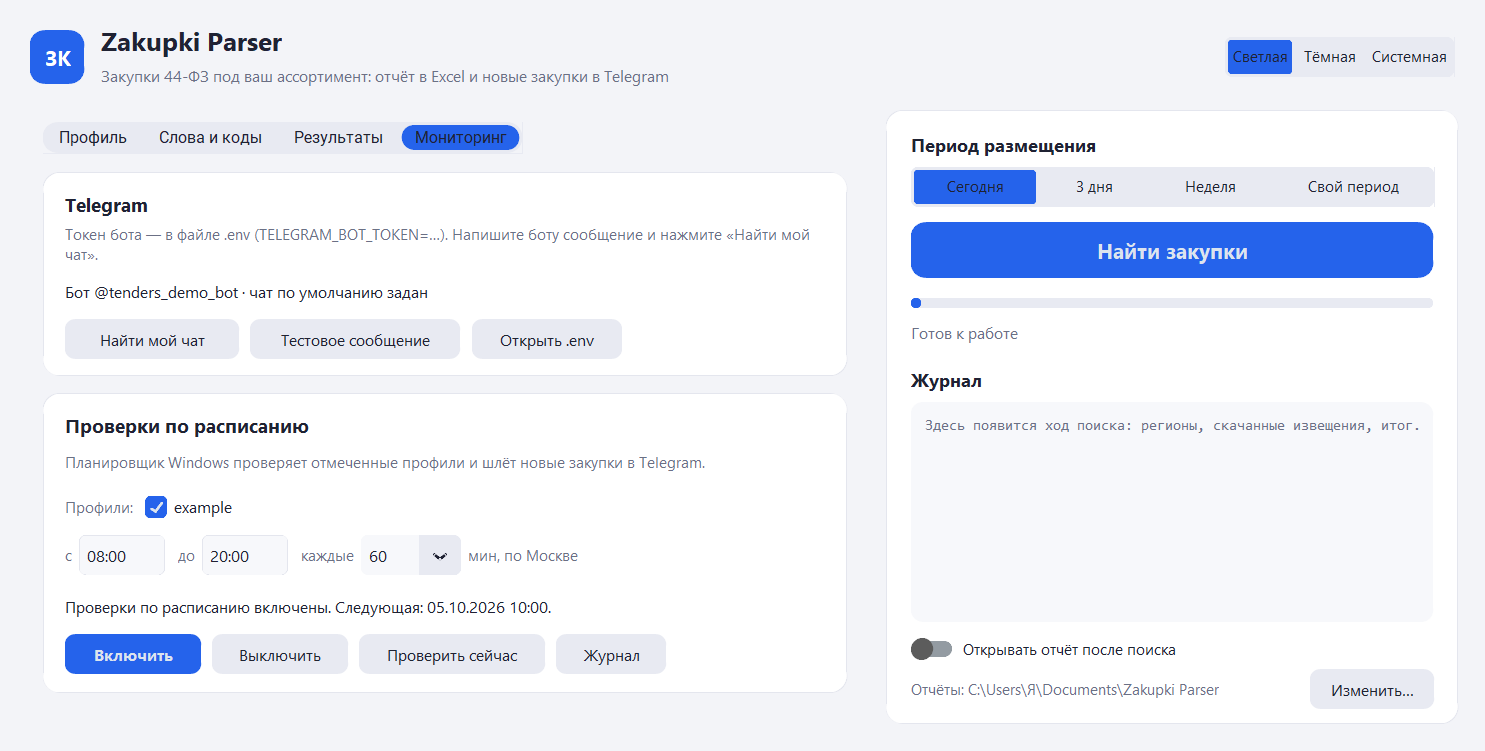
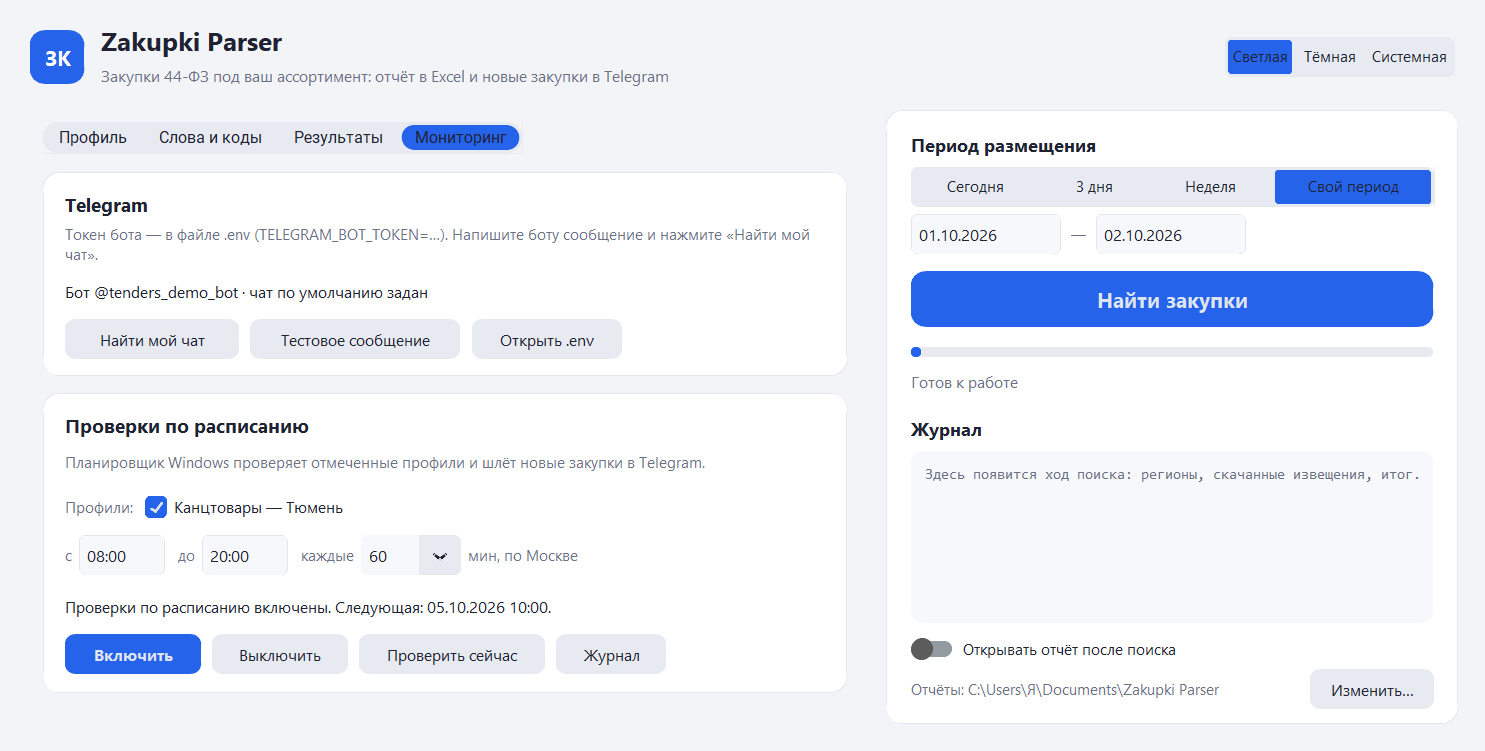
Шаблоны ниш вместо файла-примера; исправлен фильтр регионов
- «Новый профиль…» в окне: пустой профиль или один из 11 шаблонов
  (канцтовары, лекарства, медизделия, ГСМ, продукты, компьютеры, мебель,
  хозтовары, СИЗ, уборка, стройматериалы). Шаблон подставляет слова и коды
  ОКПД2, регионы остаются из формы. Коды проверены на реальных закупках;
  по ним же сужены «лекарства» (21.20.1 без реагентов), «компьютеры»,
  «мебель» (без кресел-колясок) и «уборка» (81.21–81.22).
- Тесты: каждый шаблон — корректный профиль, находит закупку своей ниши
  и не цепляет чужие.
- profiles/example.toml → docs/example-profile.toml: папка profiles теперь
  только для своих профилей и целиком не попадает в git; сборка больше
  не копирует пример в документы.
- Выбор регионов: после поиска в прокрученном вниз списке совпадения
  оставались вне видимой области — список теперь возвращается в начало.
- Список профилей показывает имена без .toml и растягивается по ширине.

diff --git a/zkparser/gui/app.py b/zkparser/gui/app.py
@@ -10,7 +10,6 @@ from __future__ import annotations
 import logging
 import os
 import queue
-import shutil
 import subprocess
 import threading
 import webbrowser
@@ -31,7 +30,7 @@ from ..fetch import STOPPED, FetchReport
 from ..monitor import MonitorResult, MonitorState, monitor
 from ..monitor_cli import TEST_MESSAGE, parse_time
 from ..pipeline import Found, RunResult, run_profiles
-from ..profiles import Profile, ProfileError, load_profile, parse_profile, save_profile
+from ..profiles import Profile, ProfileError, from_template, load_profile, load_templates, parse_profile, save_profile
 from ..regions import REGIONS
 from ..scheduler import MOSCOW, SchedulerError
 from ..settings import APP_NAME, app_data_dir, default_cache_dir, default_output_dir, profiles_dir
@@ -58,8 +57,9 @@ from .widgets import (
 log = logging.getLogger("zkparser.gui")
 
 LOG_COLORS = {"warning": theme.WARNING, "error": theme.DANGER, "success": theme.SUCCESS}
-EXAMPLE_PROFILE = "example.toml"
 NEW_PROFILE = "— новый профиль —"
+NEW_MENU = "Новый профиль…"
+EMPTY_TEMPLATE = "Пустой"
 MAX_RESULT_CARDS = 60
 INTERVALS = ["30", "60", "120"]
 ENV_TEMPLATE = (
@@ -127,7 +127,6 @@ class App(ctk.CTk):
         for name in ("zkparser.website", "zkparser.monitor"):
             logging.getLogger(name).addHandler(handler)
 
-        seed_profiles()
         self._load_profile_list(self.prefs.profile)
         self.protocol("WM_DELETE_WINDOW", self._on_close)
         self.after(100, self._poll_events)
@@ -169,14 +168,22 @@ class App(ctk.CTk):
         card.pack(fill="x")
         row = ctk.CTkFrame(card.body, fg_color="transparent")
         row.pack(fill="x", pady=(0, 12))
+        # Buttons are packed from the right first; the list of profiles takes whatever width is left.
+        neutral_button(row, "Папка", lambda: self._open_path(profiles_dir()), width=72).pack(side="right", padx=(8, 0))
+        accent_button(row, "Сохранить", self._save_profile, width=106).pack(side="right", padx=(8, 0))
+        self.templates = {template.name: template for template in load_templates()}
+        self.template_menu = ctk.CTkOptionMenu(
+            row, values=[EMPTY_TEMPLATE, *self.templates], command=self._new_from_template, width=150, height=34,
+            font=theme.font(13), dropdown_font=theme.font(13), fg_color=theme.NEUTRAL_BUTTON,
+            button_color=theme.NEUTRAL_BUTTON, button_hover_color=theme.NEUTRAL_BUTTON_HOVER, text_color=theme.TEXT,
+            dynamic_resizing=False)
+        self.template_menu.set(NEW_MENU)
+        self.template_menu.pack(side="right", padx=(8, 0))
         self.profile_menu = ctk.CTkOptionMenu(
-            row, values=[NEW_PROFILE], command=self._choose_profile, width=280, height=34, font=theme.font(13),
+            row, values=[NEW_PROFILE], command=self._choose_profile, width=160, height=34, font=theme.font(13),
             dropdown_font=theme.font(13), fg_color=theme.INPUT_BG, button_color=theme.NEUTRAL_BUTTON,
             button_hover_color=theme.NEUTRAL_BUTTON_HOVER, text_color=theme.TEXT, dynamic_resizing=False)
-        self.profile_menu.pack(side="left")
-        neutral_button(row, "Новый", self._new_profile, width=90).pack(side="left", padx=(8, 0))
-        accent_button(row, "Сохранить", self._save_profile, width=110).pack(side="left", padx=(8, 0))
-        neutral_button(row, "Папка", lambda: self._open_path(profiles_dir()), width=80).pack(side="left", padx=(8, 0))
+        self.profile_menu.pack(side="left", fill="x", expand=True)
 
         # Labels on the left of the fields: everything fits without scrolling on a laptop screen.
         grid = ctk.CTkFrame(card.body, fg_color="transparent")
@@ -376,7 +383,8 @@ class App(ctk.CTk):
 
     def _load_profile_list(self, select: str = "") -> None:
         folder = profiles_dir()
-        self.profile_files = {path.name: path for path in sorted(folder.glob("*.toml"))} if folder.exists() else {}
+        # Shown without ".toml": the menu lists profiles, not files.
+        self.profile_files = {path.stem: path for path in sorted(folder.glob("*.toml"))} if folder.exists() else {}
         self.profile_menu.configure(values=[*self.profile_files, NEW_PROFILE])
         self._build_monitored_list()
         choice = select if select in self.profile_files else next(iter(self.profile_files), "")
@@ -407,6 +415,17 @@ class App(ctk.CTk):
         self.profile_path = None
         self.profile_menu.set(NEW_PROFILE)
         self._show_profile(Profile(name="Новый профиль", regions=tuple(self.regions)))
+
+    def _new_from_template(self, choice: str) -> None:
+        """A new, not yet saved profile: words and codes from the template, regions kept from the form."""
+        self.template_menu.set(NEW_MENU)
+        if choice not in self.templates:
+            self._new_profile()
+            return
+        self.profile_path = None
+        self.profile_menu.set(NEW_PROFILE)
+        self._show_profile(from_template(self.templates[choice], tuple(self.regions)))
+        self._log("info", f"Шаблон «{choice}»: проверьте регионы и слова, затем «Сохранить».")
 
     def _show_profile(self, profile: Profile) -> None:
         set_entry(self.name, profile.name)
@@ -455,7 +474,8 @@ class App(ctk.CTk):
             self._warn(without_path(error))
             return
         path = self.profile_path
-        if path is None or path.name == EXAMPLE_PROFILE:  # the example keeps its comments: save a copy instead
+        if path is None:
+            profiles_dir().mkdir(parents=True, exist_ok=True)
             chosen = filedialog.asksaveasfilename(
                 parent=self, initialdir=profiles_dir(), initialfile=f"{safe_file_name(profile.name)}.toml",
                 defaultextension=".toml", filetypes=[("Профиль", "*.toml")], title="Сохранить профиль")
@@ -464,7 +484,7 @@ class App(ctk.CTk):
             path = Path(chosen)
         save_profile(profile, path)
         self._log("success", f"Профиль сохранён: {path.name}")
-        self._load_profile_list(path.name)
+        self._load_profile_list(path.stem)
 
     def _pick_regions(self) -> None:
         def done(selected: list[str]) -> None:
@@ -605,7 +625,7 @@ class App(ctk.CTk):
         label(self.monitored_frame, "Профили:").grid(row=0, column=0, sticky="w", padx=(0, 10))
         for index, name in enumerate(self.profile_files):
             var = ctk.BooleanVar(value=name in self.prefs.monitored)
-            ctk.CTkCheckBox(self.monitored_frame, text=Path(name).stem, variable=var, font=theme.font(13),
+            ctk.CTkCheckBox(self.monitored_frame, text=name, variable=var, font=theme.font(13),
                             text_color=theme.TEXT, fg_color=theme.ACCENT, hover_color=theme.ACCENT_HOVER,
                             checkbox_width=18, checkbox_height=18, corner_radius=5,
                             command=self._remember_monitored).grid(row=index // 3, column=1 + index % 3, sticky="w",
@@ -939,15 +959,6 @@ def _schedule_text(status: scheduler.TaskStatus) -> str:
     if status.last_run:
         text += f" Последняя: {status.last_run} — {status.last_result}."
     return text
-
-
-def seed_profiles() -> None:
-    """The built program keeps profiles in the documents folder: start it with the example."""
-    folder = profiles_dir()
-    example = theme.resource_path(f"profiles/{EXAMPLE_PROFILE}")
-    if not folder.exists() and example.exists():
-        folder.mkdir(parents=True)
-        shutil.copy2(example, folder / EXAMPLE_PROFILE)
 
 
 def setup_logging() -> None:

diff --git a/tests/test_templates.py b/tests/test_templates.py
@@ -1,0 +1,69 @@
+"""Niche templates: every one is a valid profile once regions are added, and each finds its own kind of notice."""
+
+from __future__ import annotations
+
+import re
+from pathlib import Path
+
+import pytest
+from conftest import FIXTURES
+
+from zkparser.matching import Matcher
+from zkparser.notice_xml import parse_notice
+from zkparser.profiles import from_template, load_templates, parse_profile
+
+TEMPLATES = {template.name: template for template in load_templates()}
+CODE = re.compile(r"\d{2}(\.\d*)*")
+
+
+def test_templates_are_there():
+    assert len(TEMPLATES) == 11
+    assert "Канцтовары и бумага" in TEMPLATES
+    for template in TEMPLATES.values():
+        assert template.keywords, template.name
+        assert template.okpd2, template.name
+        assert all(CODE.fullmatch(code) for code in template.okpd2), template.name
+
+
+@pytest.mark.parametrize("name", list(TEMPLATES))
+def test_template_is_a_valid_profile(name):
+    template = TEMPLATES[name]
+    data = {
+        "name": template.name,
+        "regions": ["72"],
+        "keywords": list(template.keywords),
+        "minus": list(template.minus),
+        "okpd2": list(template.okpd2),
+        "ktru": list(template.ktru),
+    }
+    profile = parse_profile(data, Path("template.toml"))
+    Matcher(profile)  # every keyword and minus word compiles
+
+
+def test_from_template_keeps_the_regions():
+    profile = from_template(TEMPLATES["Мебель"], ("72000000000", "86000000000"))
+    assert profile.name == "Мебель"
+    assert profile.regions == ("72000000000", "86000000000")
+    assert profile.okpd2 == TEMPLATES["Мебель"].okpd2
+
+
+FIXTURE_NICHES = {
+    "auction_ktru": "Топливо и ГСМ",  # diesel fuel and petrol
+    "drugs": "Лекарственные препараты",
+    "joint": "Продукты питания",  # tomato paste
+}
+
+
+@pytest.mark.parametrize(("fixture", "niche"), list(FIXTURE_NICHES.items()))
+def test_each_notice_is_found_by_its_template_only(fixture, niche):
+    notice = parse_notice((FIXTURES / f"notice_{fixture}.xml").read_bytes())
+    matched = {name for name, template in TEMPLATES.items()
+               if Matcher(from_template(template, ("72000000000",))).evaluate(notice).matched}
+    assert matched == {niche}
+
+
+def test_storage_services_fit_no_template():
+    notice = parse_notice((FIXTURES / "notice_quotation.xml").read_bytes())
+    matched = [name for name, template in TEMPLATES.items()
+               if Matcher(from_template(template, ("72000000000",))).evaluate(notice).matched]
+    assert matched == []

diff --git a/tools/screenshot.py b/tools/screenshot.py
@@ -2,13 +2,16 @@
 
 Usage: python tools/screenshot.py OUTPUT.png [light|dark] [tab name]
 
-The "Результаты" tab is filled with the anonymized test notices, so no network is needed. On the "Мониторинг" tab the
-bot's name and the chat number are replaced: the screenshots go into a public repository.
+The window works on a temporary profiles folder with one profile made from the "Канцтовары и бумага" template, so the
+screenshots do not depend on your own profiles. The "Результаты" tab is filled with the anonymized test notices, so no
+network is needed. On the "Мониторинг" tab the bot's name and the chat number are replaced: the screenshots go into a
+public repository.
 """
 
 from __future__ import annotations
 
 import sys
+import tempfile
 from datetime import date
 from pathlib import Path
 
@@ -18,11 +21,12 @@ sys.path.insert(0, str(ROOT / "tools"))
 
 import window_capture  # noqa: E402
 
+from zkparser.gui import app as window  # noqa: E402
 from zkparser.gui.app import App, setup_logging  # noqa: E402
 from zkparser.matching import Matcher  # noqa: E402
 from zkparser.notice_xml import parse_notice  # noqa: E402
 from zkparser.pipeline import Found, ProfileResult, RunResult  # noqa: E402
-from zkparser.profiles import Profile  # noqa: E402
+from zkparser.profiles import Profile, from_template, load_templates, save_profile  # noqa: E402
 from zkparser.website.search import SearchHit  # noqa: E402
 
 FIXTURES = ROOT / "tests" / "fixtures"
@@ -43,11 +47,22 @@ def demo_results() -> RunResult:
     return RunResult([ProfileResult(profile, checked=112, matches=matches)])
 
 
+def demo_profiles() -> Path:
+    folder = Path(tempfile.mkdtemp(prefix="zk-demo-"))
+    template = next(t for t in load_templates() if t.name == "Канцтовары и бумага")
+    profile = from_template(template, ("72000000000",))
+    save_profile(Profile(**{**profile.__dict__, "name": "Канцтовары — Тюмень", "price_from": 10000}),
+                 folder / "Канцтовары — Тюмень.toml")
+    return folder
+
+
 def main() -> None:
     output = Path(sys.argv[1])
     appearance = sys.argv[2] if len(sys.argv) > 2 else "light"
     tab = sys.argv[3] if len(sys.argv) > 3 else None
     setup_logging()
+    folder = demo_profiles()
+    window.profiles_dir = lambda: folder
     if tab == "Мониторинг":
         App._refresh_monitoring = lambda _app: None  # no real bot name or chat id on a public screenshot
     app = App()

diff --git a/zkparser/profiles.py b/zkparser/profiles.py
@@ -2,7 +2,7 @@
 
 A profile names its regions and the matching rules: keywords and minus words (word forms are matched, ``*`` ends
 a word prefix, quotes keep a phrase in order), OKPD2/KTRU code prefixes, customer INNs to include or exclude and the
-price range. See profiles/example.toml.
+price range. See docs/example-profile.toml; ready-made starters for common niches are in templates/.
 """
 
 from __future__ import annotations
@@ -18,6 +18,8 @@ from .regions import resolve_region
 LIST_FIELDS = ("regions", "keywords", "minus", "okpd2", "ktru", "customer_inn", "exclude_customer_inn")
 KNOWN_FIELDS = {"name", "price_from", "price_to", "all_stages", "telegram_chat", *LIST_FIELDS}
 TELEGRAM_CHAT = re.compile(r"-?\d{3,}|@[A-Za-z]\w{3,}")
+TEMPLATES_DIR = Path(__file__).resolve().parent / "templates"
+TEMPLATE_FIELDS = ("keywords", "minus", "okpd2", "ktru")
 
 
 class ProfileError(ValueError):
@@ -39,6 +41,38 @@ class Profile:
     all_stages: bool = False
     telegram_chat: str = ""  # where to send new notices; empty — the default chat from .env
     path: Path | None = field(default=None, compare=False)
+
+
+@dataclass(frozen=True)
+class Template:
+    """A starter dictionary of a common niche: words and codes, no regions, prices or customers."""
+
+    name: str
+    keywords: tuple[str, ...] = ()
+    minus: tuple[str, ...] = ()
+    okpd2: tuple[str, ...] = ()
+    ktru: tuple[str, ...] = ()
+
+
+def load_templates(folder: Path = TEMPLATES_DIR) -> list[Template]:
+    """The templates shipped with the program. Their OKPD2 classes were checked against real notices of the Tyumen
+    region in October 2026; a template is where a niche dictionary starts, not where it ends."""
+    templates = []
+    for path in sorted(folder.glob("*.toml")):
+        data = tomllib.loads(path.read_text(encoding="utf-8"))
+        templates.append(Template(data["name"], *(tuple(data.get(field, ())) for field in TEMPLATE_FIELDS)))
+    return templates
+
+
+def from_template(template: Template, regions: tuple[str, ...] = ()) -> Profile:
+    return Profile(
+        name=template.name,
+        regions=regions,
+        keywords=template.keywords,
+        minus=template.minus,
+        okpd2=template.okpd2,
+        ktru=template.ktru,
+    )
 
 
 def dump_profile(profile: Profile) -> str:

diff --git a/zkparser/gui/widgets.py b/zkparser/gui/widgets.py
@@ -133,6 +133,8 @@ class RegionPicker(ctk.CTkToplevel):
         for code, (var, box) in self._items.items():
             if not text or text in REGIONS[code].casefold() or text == code[:2] or var.get():
                 box.pack(anchor="w", padx=8, pady=3)
+        # A list scrolled down keeps its offset when it gets shorter, and the matches stay out of sight above.
+        self.list._parent_canvas.yview_moveto(0)
 
     def _clear(self) -> None:
         for var, _ in self._items.values():

diff --git a/tests/test_profiles.py b/tests/test_profiles.py
@@ -8,7 +8,7 @@ import pytest
 
 from zkparser.profiles import ProfileError, load_profile, parse_profile, save_profile
 
-EXAMPLE = Path(__file__).resolve().parents[1] / "profiles" / "example.toml"
+EXAMPLE = Path(__file__).resolve().parents[1] / "docs" / "example-profile.toml"
 PATH = Path("client.toml")
 
 

diff --git a/README.md b/README.md
@@ -24,6 +24,10 @@ python app.py
 
 - **Профиль** — регионы, цена, заказчики, этап и Telegram-чат; **Слова и коды** — ключевые и минус-слова, ОКПД2
   и КТРУ. Профили сохраняются в папку `profiles`.
+- **Новый профиль…** — пустой или из шаблона ниши: канцтовары, лекарства, медицинские изделия, топливо, продукты,
+  компьютеры, мебель, хозтовары, спецодежда, уборка, стройматериалы. Шаблон подставляет слова и коды ОКПД2,
+  регионы остаются ваши; коды проверены на реальных закупках, но это отправная точка — словарь доводится под
+  ассортимент.
 - **Найти закупки** — поиск за сегодня, 3 дня, неделю или свой период, с ходом работы в журнале и кнопкой «Остановить»
   (найденное к этому моменту сохраняется). Отчёт Excel — в `Документы\Zakupki Parser`.
 - **Результаты** — карточки подошедших закупок: цена, срок подачи заявок, этап, заказчик и почему закупка подошла;
@@ -70,10 +74,11 @@ python -m zkparser show 0167200003426008053
 ### Отбор по профилю
 
 Профиль — файл с тем, что искать для одной ниши или одного клиента: регионы, ключевые и минус-слова, коды ОКПД2
-и КТРУ, ИНН заказчиков, диапазон цены. Образец с пояснениями — [profiles/example.toml](profiles/example.toml).
+и КТРУ, ИНН заказчиков, диапазон цены. Удобнее всего создать его в окне из шаблона; формат с пояснениями —
+[docs/example-profile.toml](docs/example-profile.toml), шаблоны — [zkparser/templates](zkparser/templates).
 
 ```bash
-python -m zkparser match profiles/example.toml --date 2026-10-02
+python -m zkparser match docs/example-profile.toml --date 2026-10-02
 ```
 
 ```
@@ -93,7 +98,7 @@ python -m zkparser match profiles/example.toml --date 2026-10-02
 - У каждой подошедшей закупки указано, почему она подошла.
 - Несколько профилей за один запуск: каждый регион скачивается один раз, каждая закупка проверяется по всем профилям.
 
-Свои профили храните в папке `profiles/` — в репозиторий попадает только образец.
+Свои профили храните в папке `profiles/` — в репозиторий она не попадает.
 
 ### Отчёт в Excel
 
@@ -120,7 +125,7 @@ python -m zkparser match profiles/example.toml --date 2026-10-02
    У профиля может быть свой чат — параметр `telegram_chat`, например для клиента.
 
 ```bash
-python -m zkparser monitor profiles/example.toml
+python -m zkparser monitor profiles/канцтовары.toml
 ```
 
 - **Без пропусков.** Проверка начинается с дня прошлой проверки (не дальше недели назад): если компьютер был
@@ -133,7 +138,7 @@ python -m zkparser monitor profiles/example.toml
 **По расписанию** — через Планировщик Windows, время по Москве:
 
 ```bash
-python -m zkparser schedule on profiles/example.toml --from 08:00 --to 20:00 --every 60
+python -m zkparser schedule on profiles/канцтовары.toml --from 08:00 --to 20:00 --every 60
 python -m zkparser schedule off
 python -m zkparser schedule on
 python -m zkparser schedule status
